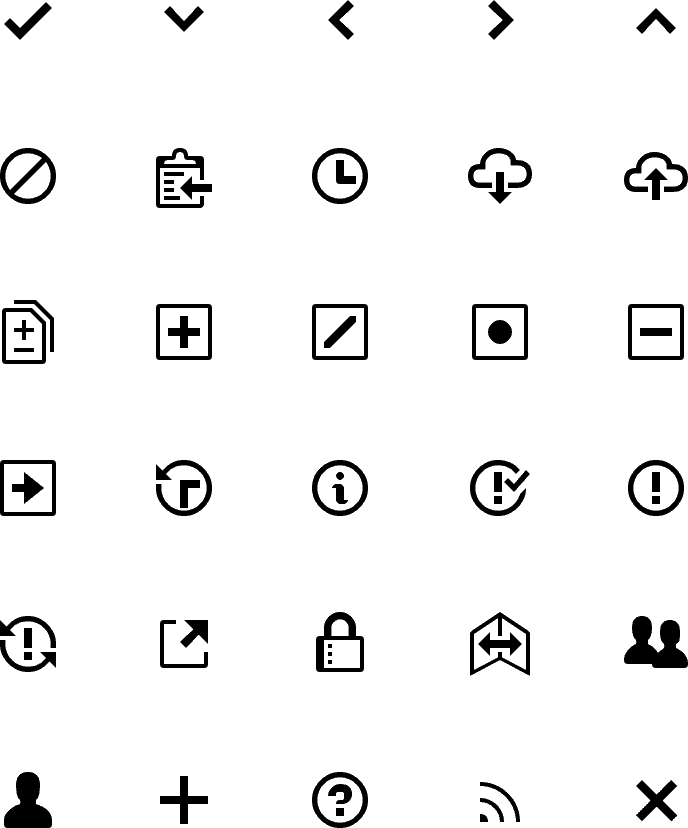
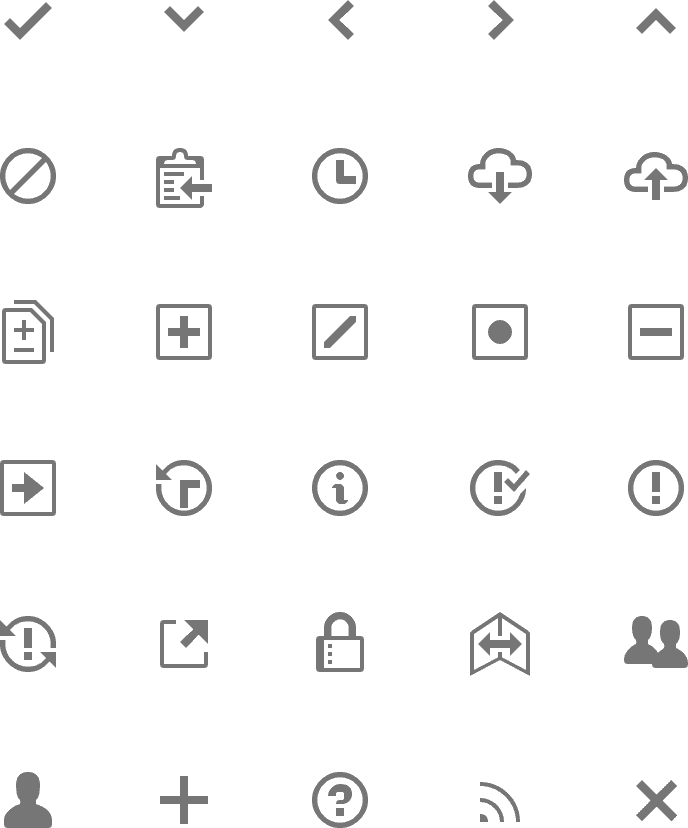
Some more refinements

diff --git a/src/work/github/index.html b/src/work/github/index.html
@@ -214,12 +214,12 @@
     <p>In early style explorations, it became obvious that there wasn’t a ton we were going to be able to change within the core Git icons. Thinning them to 1px left them fragile, unreadable. Since we’ve built a brand around these metaphors, changing them wildly was out of the question. These icons would have to stay put.</p>
 
     <div class="caption">
-      <img src="media/octicons-thin-git.png" alt="Thin git icons" width="152">
+      <img src="media/octicons-thin-git.png" alt="Thin git icons" width="152" style="opacity: .55;">
       Thin git icons
     </div>
 
     <div class="caption">
-      <img src="media/octicons-square-git.png" alt="Square git icons" width="162">
+      <img src="media/octicons-square-git.png" alt="Square git icons" width="162" style="opacity: .55;">
       Square git icons
     </div>
 
@@ -235,14 +235,14 @@
     <p>There were some exceptions to this rule. File-types, for example, were really muddied by 2px inner strokes.</p>
 
     <div class="caption">
-      <img src="media/octicons-file-icons.png" alt="File icons" width="78">
+      <img src="media/octicons-file-icons.png" alt="File icons" width="308">
       File icons exploration
     </div>
 
     <p>We also standardized on 1px corner radii to soften the overall appearance of the iconset. We were careful to never double those corners on the inside, leaving the edges hard. The calendar icon shows these rules well.</p>
 
     <div class="caption">
-      <img src="media/octicons-corner-radius-detail.png" alt="Corner radius detail" width="208">
+      <img src="media/octicons-corner-radius-detail.png" alt="Corner radius detail" width="416">
       Corner radius detail
     </div>
 
@@ -322,7 +322,7 @@
 
     <p>Working on GitHub was an amazing experience. It was my first foray in using <a href="http://githubengineering.com/deploying-branches-to-github-com/">chat ops to deploy</a> live changes to a massive userbase. Since GitHub uses GitHub to build GitHub, it’s exciting (and sometimes frustrating) to be fully immersed in the product you’re building. Helping build even the smallest feature at such a massive scale was often nerve-wracking, but fulfilling.</p>
 
-    <p>This post serves as a greatest-hits, so to speak, of my time at GitHub. Countless of tiny refinements are made by each of GitHub’s talented designers and engineers every day. This post also only highlights actual directions that were explored. As an example, a feature like Code Review often results in a Sketch file with a ton of revisions and exploration. It can also spawn a number of prototypes that are simply too ephemeral to capture here. This is an account of what shipped. ✌</p>
+    <p>This post serves as a greatest-hits, so to speak, of my time at GitHub. Countless of tiny refinements are made by each of GitHub’s talented designers and engineers every day. This post also only highlights actual directions that were explored. As an example, a feature like Code Review often results in a Sketch file with a ton of revisions and exploration. It can also spawn a number of prototypes that are simply too ephemeral to capture here. This is an account of what actually shipped. ✌</p>
 
     <div class="background">
       <div class="caption">
